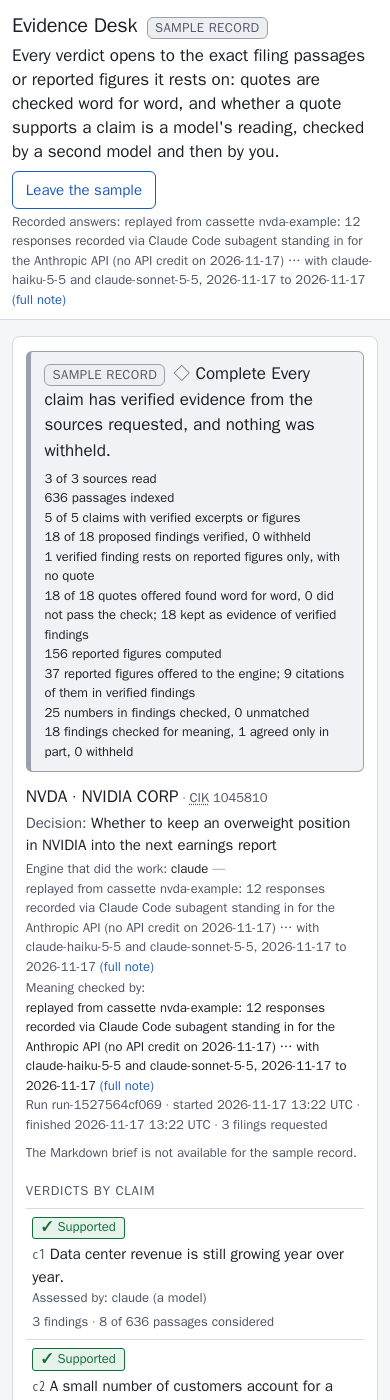
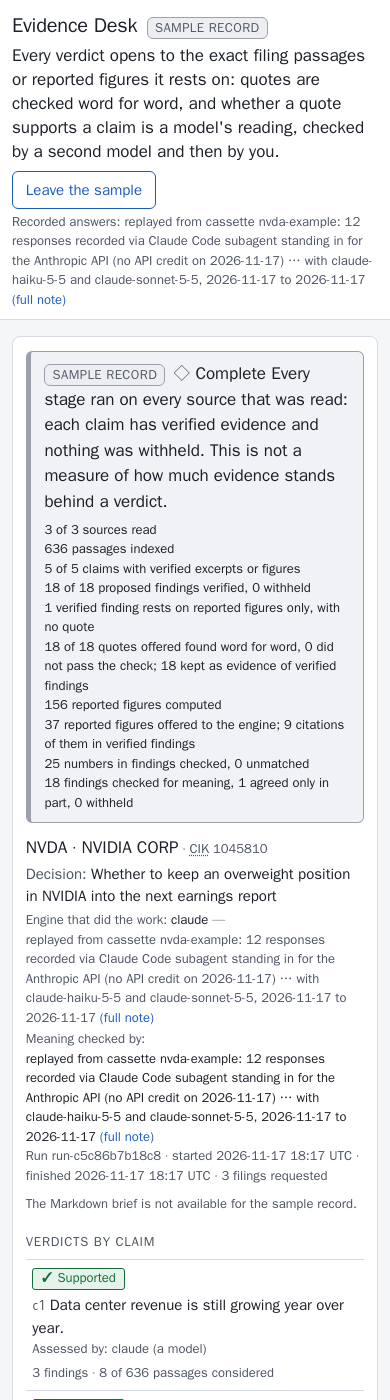
Version 0.10.0: say what complete means, and replay the samples with it
The status note for a complete run promised evidence 'from the sources
requested'. It now says what the status is: every stage ran on every
source that was read, each claim has verified evidence, nothing was
withheld, and it is not a measure of how much evidence stands behind a
verdict (the third referee, finding 1).

The page's samples are the recorded answers replayed by this version, so
they carry its wording and its coverage counts: the first recording
(the same verdicts and counts as before, checked against the tripwire's
replay record), the list of changes that belongs to it, fetched live
again, and the tagged recording. Screenshots taken again.

Changed region(s): [[0.0615, 0.2764, 0.8923, 1.0], [0.8308, 0.8907, 0.8615, 0.9521]]

diff --git a/Capstone/evidence_desk/tests/test_api.py b/Capstone/evidence_desk/tests/test_api.py
@@ -305,7 +305,7 @@ def test_meta_gives_every_view_its_limits_and_wording(client: TestClient) -> Non
     assert meta["figures_note"] == FIGURES_NOTE
     assert meta["decision_labels"] == DECISION_LABELS
     assert meta["review_note"] == REVIEW_NOTE
-    assert meta["version"] == "0.9.0"
+    assert meta["version"] == "0.10.0"
     assert meta["engine"] == "extractive"
     assert meta["checker"] == {"name": "none", "detail": ""}
     assert meta["support_labels"] == SUPPORT_LABELS
@@ -367,7 +367,7 @@ def test_health(client: TestClient) -> None:
         "engine": "extractive",
         "model": None,
     }
-    assert __version__ == "0.9.0"
+    assert __version__ == "0.10.0"
 
 
 # Static files

diff --git a/Capstone/evidence_desk/tests/test_policy.py b/Capstone/evidence_desk/tests/test_policy.py
@@ -306,3 +306,11 @@ def test_the_provenance_note_says_when_a_page_you_added_was_read() -> None:
     )
     second = page.model_copy(update={"id": "s5"})
     assert "from 2 pages you added" in provenance_note([filing, page, second])
+
+
+def test_the_complete_note_says_what_complete_means_and_what_it_does_not() -> None:
+    """The third referee, finding 1: the note promised evidence "from the sources requested"."""
+    note = STATUS_NOTES[RunStatus.complete]
+    assert "sources requested" not in note
+    assert "Every stage ran on every source that was read" in note
+    assert "not a measure of how much evidence stands behind a verdict" in note

diff --git a/Capstone/evidence_desk/src/app/core/policy.py b/Capstone/evidence_desk/src/app/core/policy.py
@@ -24,7 +24,8 @@ from app.core.models import (
 STATUS_NOTES: dict[RunStatus, str] = {
     RunStatus.running: "The run is in progress.",
     RunStatus.complete: (
-        "Every claim has verified evidence from the sources requested, and nothing was withheld."
+        "Every stage ran on every source that was read: each claim has verified evidence and "
+        "nothing was withheld. This is not a measure of how much evidence stands behind a verdict."
     ),
     RunStatus.partial: (
         "Part of the thesis could not be assessed with verified evidence. "

diff --git a/Capstone/evidence_desk/tests/test_demo.py b/Capstone/evidence_desk/tests/test_demo.py
@@ -43,7 +43,7 @@ def test_the_summary_reports_status_claims_coverage_and_sources(tmp_path: Path) 
 
     assert run.id in text and "PARTIAL" in text
     assert "12.3" in line_with("Wall time")
-    assert "extractive" in line_with("Engine") and "0.9.0" in line_with("Engine")
+    assert "extractive" in line_with("Engine") and "0.10.0" in line_with("Engine")
     for claim in run.claims:
         withheld = sum(1 for f in run.unsupported_findings if f.claim_id == claim.id)
         row = line_with(claim.text)

diff --git a/Capstone/evidence_desk/src/app/__init__.py b/Capstone/evidence_desk/src/app/__init__.py
@@ -1,3 +1,3 @@
 """Evidence Desk: tests an equity analyst's thesis claims against the company's SEC filings."""
 
-__version__ = "0.9.0"
+__version__ = "0.10.0"
